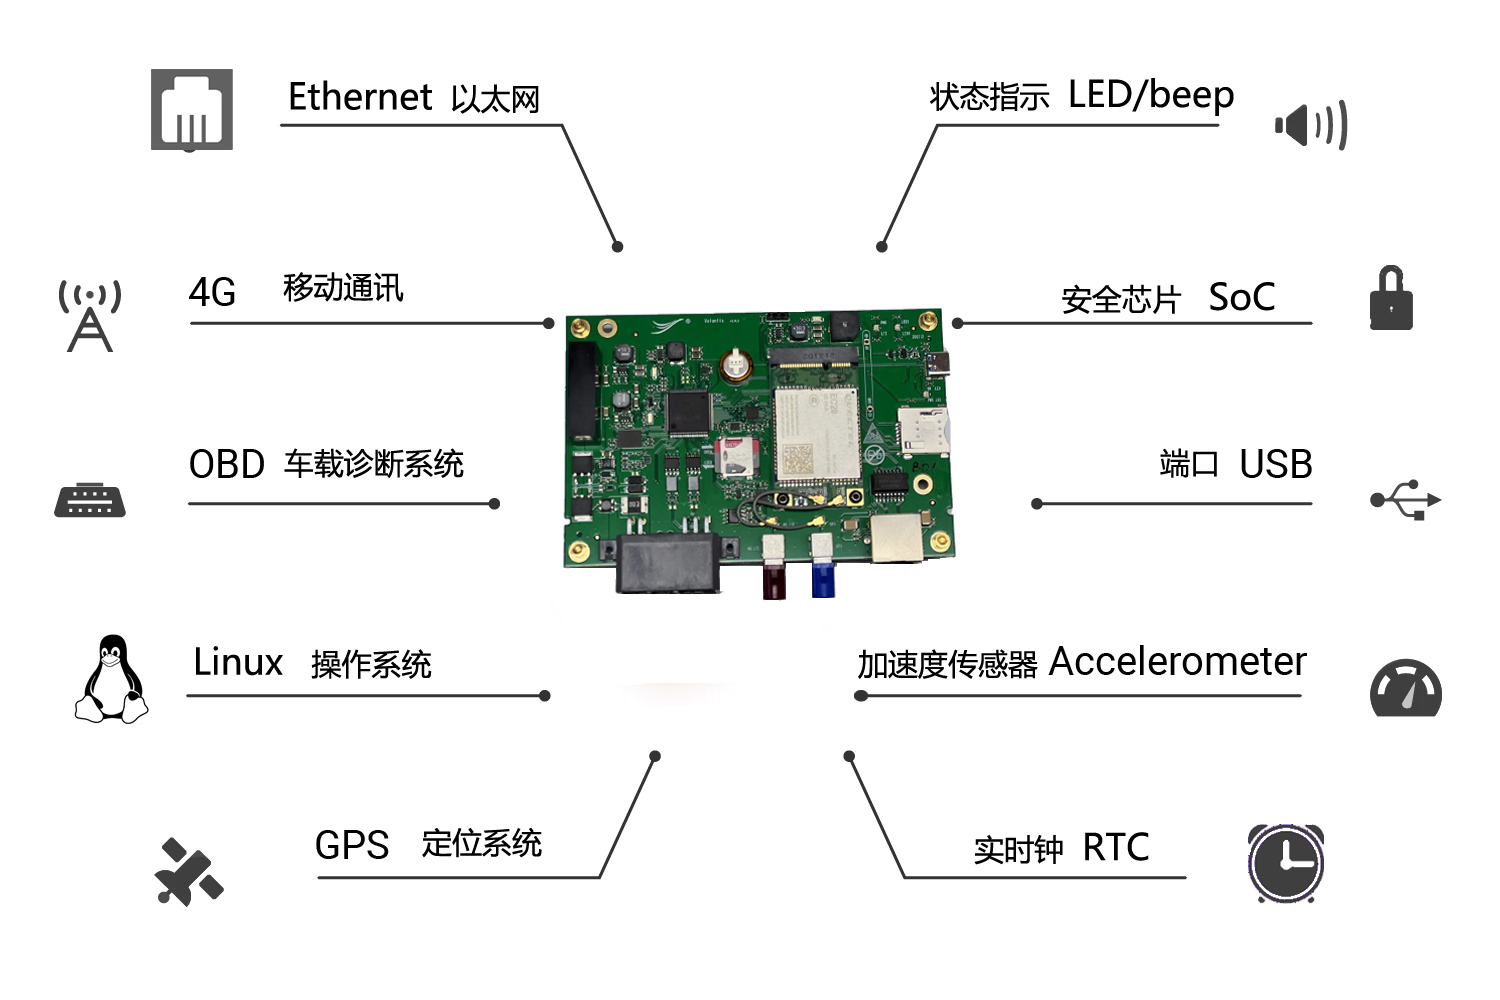
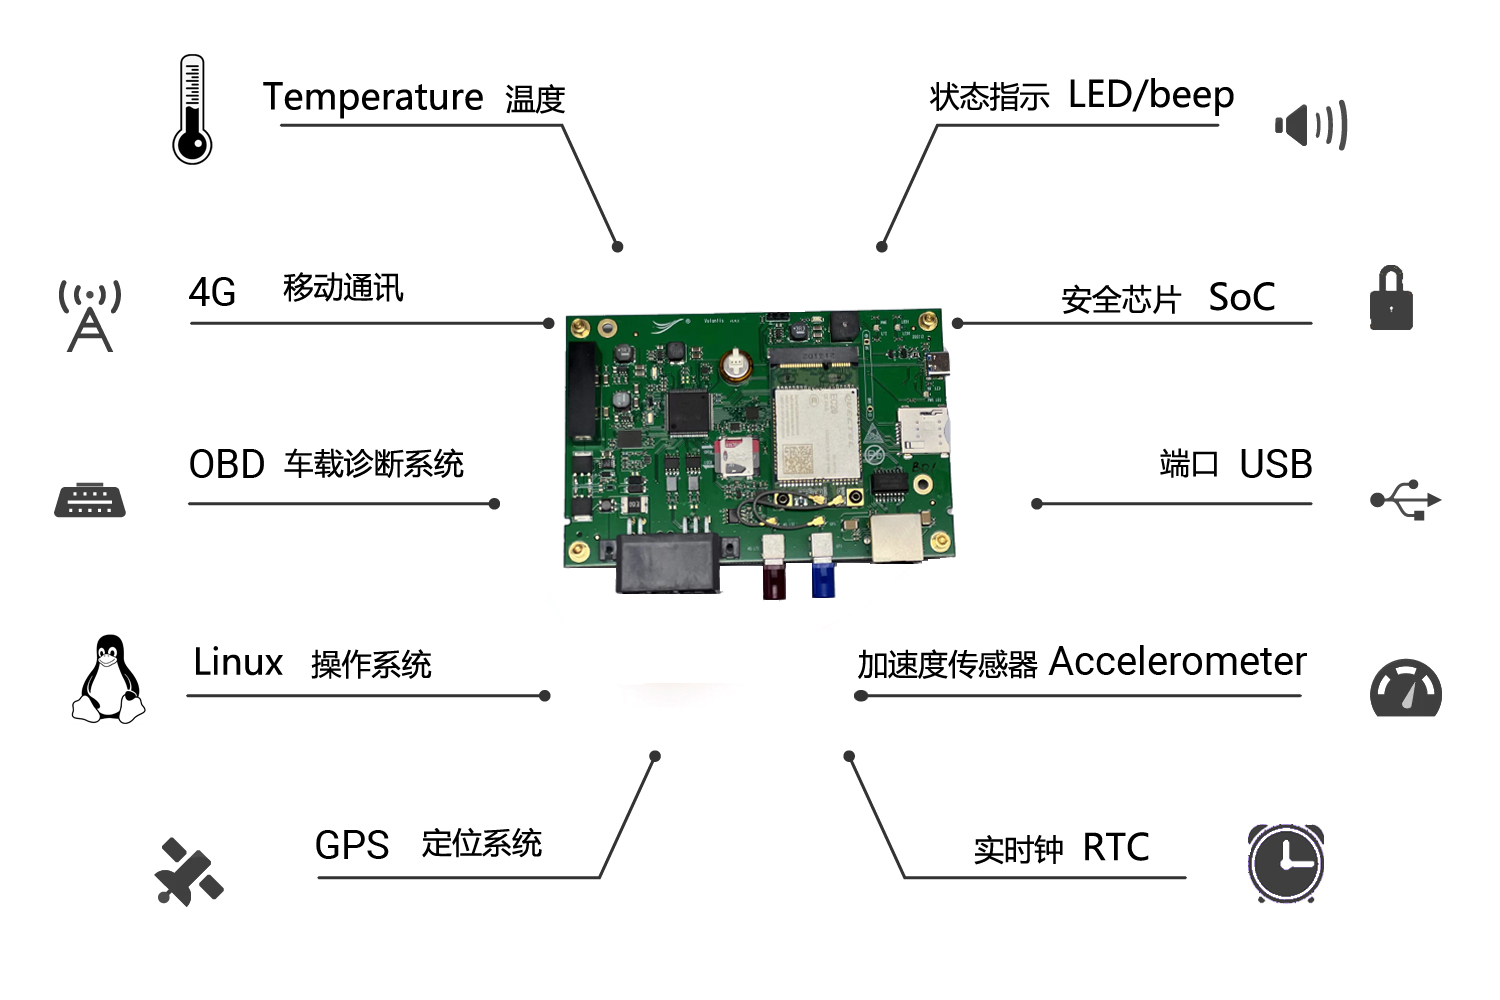
wip

Changed region(s): [[0.092, 0.062, 0.3987, 0.186], [0.0307, 0.62, 0.092, 0.744]]

diff --git a/profile/README.md b/profile/README.md
@@ -6,9 +6,11 @@
 - **4G模块** -- 内置4G模块，可以轻松访问Internet。
 - **GPS模块** -- 实时跟踪车辆位置、速度和高度。
 - **加速度传感器** -- 板卡内置3轴加速度传感器可实时测量汽车在水平和垂直方向的加速度。
+- **温度传感器** -- 板卡内置温度传感器，可以实时获取环境温度。
 - **实时钟** -- 设备本机具备实时钟，即使在脱机时，设备也会保持正确的计时。通过GPS实现高精度时钟同步。
 - **安全芯片** -- 板卡内置安全芯片，能够对国密数据加解密，数字签名验签进行硬件加速。安全芯片通过国密2级认证，支持SM2/SM3/SM4/AES/SHA_256等算法的硬件加速，具备符合《随机性检测规范》要求和NIST SP800-22标准的真随机数发生器TRNG。
 - **USB接口** -- 内置USB2.0接口用于离线数据交换和固件烧录。
 - **状态指示** -- 板卡提供LED指示灯和蜂鸣器用于指示电源/读写等状态。
-- **以太网卡** -- 可以通过以太网登录硬件，进行应急管理，无需担心无线网络攻击威胁。
 - **Linux操作系统** -- Linux具备优秀的调度能力，健壮的TCP/IP网络协议栈，以及出色的硬件支持；Linux是真正开源的操作系统；Linux被移植到各种不同的处理器架构。
+
+Volantis使用以太网登录硬件，进行应急管理，因此无需担心无线网络攻击威胁。
